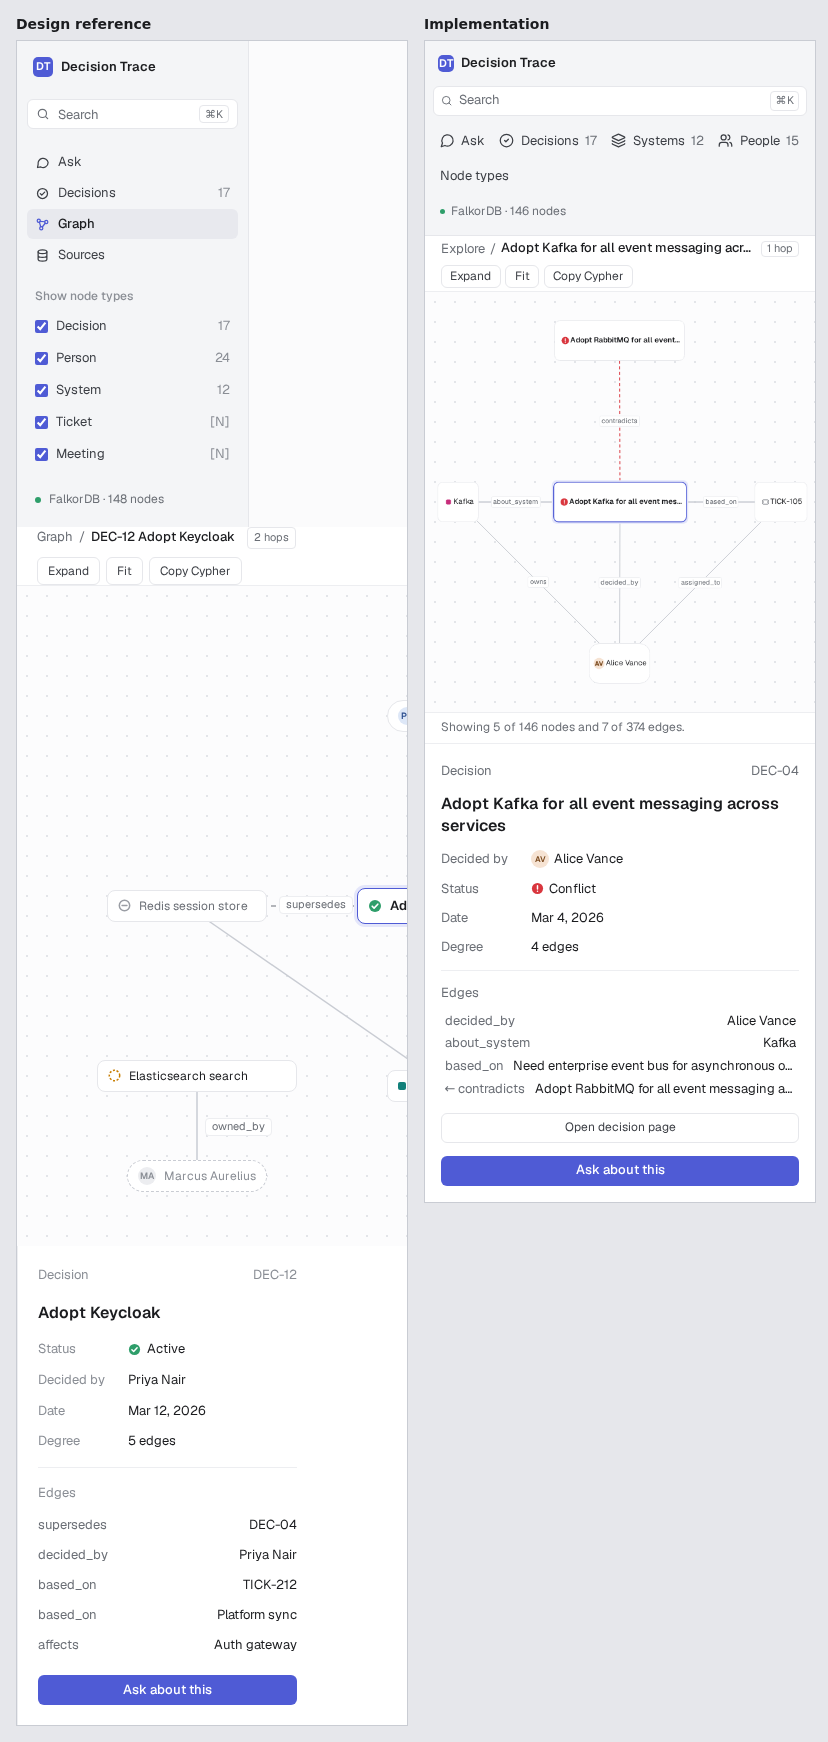
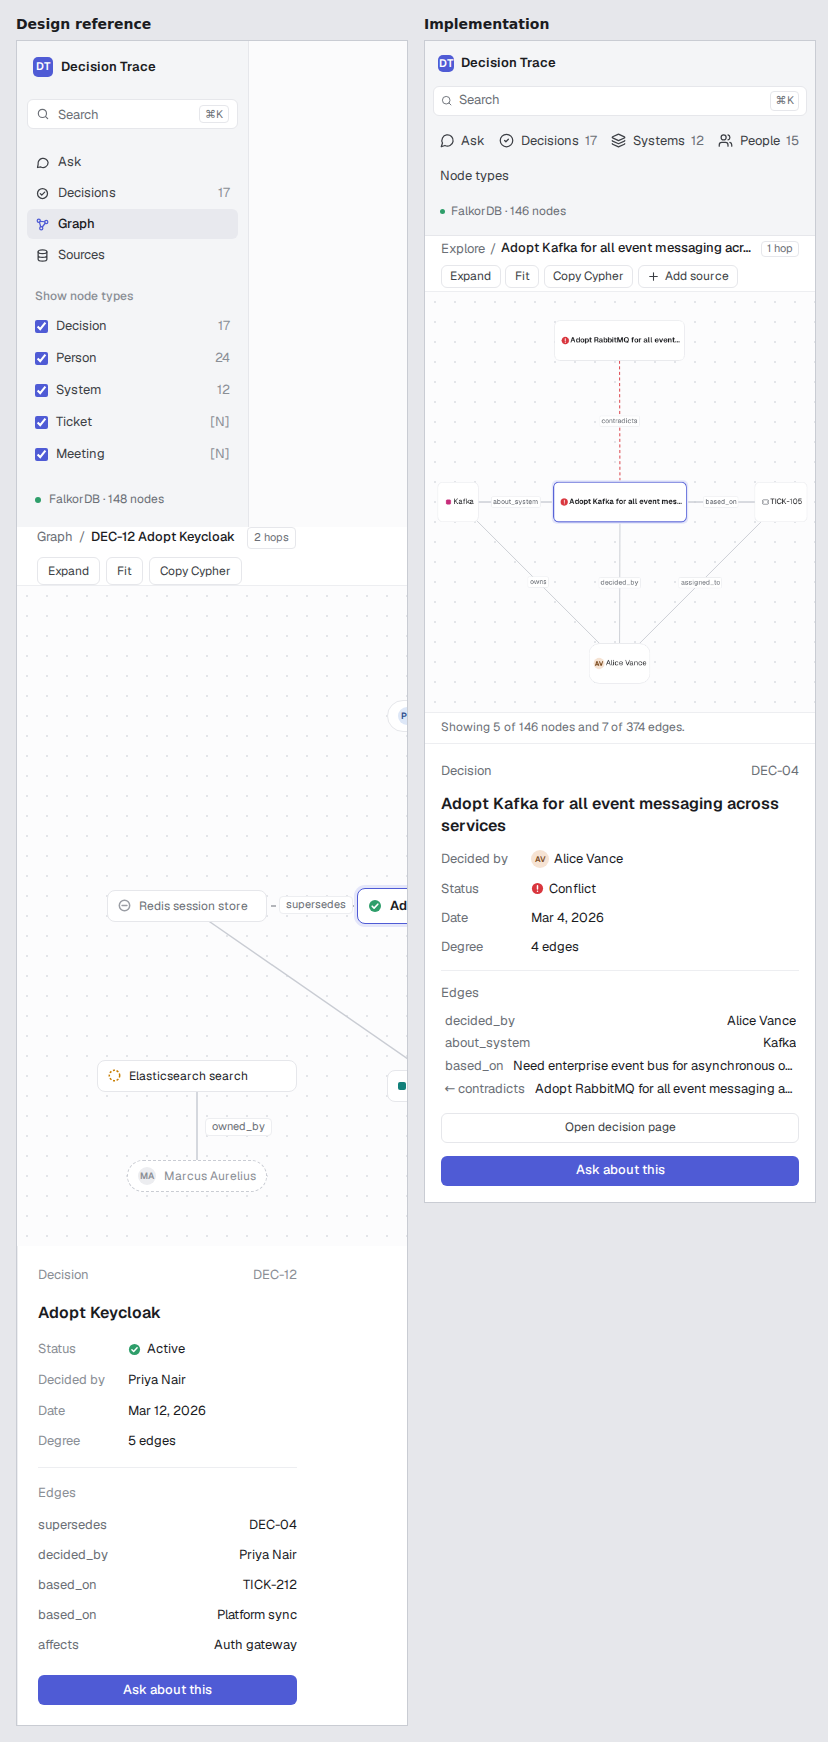
fix: keep caches warm after ingest/reset; Show Cypher times only Cypher; CI screenshots
Ingest and reset store the health map and codes they just computed instead of only
invalidating, so the refetched pages stay fast. The decision page's trace clock now starts
after the cache lookups. Adds the CI-produced screenshots (drawer running + diff).

diff --git a/backend/app/ingest/live.py b/backend/app/ingest/live.py
@@ -525,6 +525,9 @@ async def run_ingest(req: IngestRequest, dataset: str) -> AsyncIterator[dict[str
         yield _step("health", "running")
         cache.invalidate()
         after = await _snapshot_state(dataset)
+        # Store the fresh results so the pages refetched next do not recompute them
+        cache.put("health", dataset, after["health"])
+        cache.put("codes", dataset or "", after["codes"])
         diff = build_diff(ingest_id, ingested_at, req, src_key, created, overrides, links, before, after)
         changed_nodes = [
             {"id": f"Decision:{s['id']}", "label": "Decision", "name": s["title"], "decision_code": s["decision_code"], "change": "changed"}
@@ -719,6 +722,9 @@ async def reset_demo(dataset: str) -> dict[str, Any]:
             "MATCH (c:Change {kind: 'ingest', reverted: false}) SET c.reverted = true", dataset_name=graph
         )
     cache.invalidate()
+    health, codes = await asyncio.gather(evaluate_graph_health(dataset_name=dataset), get_decision_codes(dataset))
+    cache.put("health", dataset, health)
+    cache.put("codes", dataset or "", codes)
     totals = await asyncio.gather(
         query_graph("MATCH (n) RETURN count(n)", dataset_name=dataset),
         query_graph("MATCH ()-[r]->() RETURN count(r)", dataset_name=dataset),

diff --git a/backend/app/brain/lineage.py b/backend/app/brain/lineage.py
@@ -187,10 +187,10 @@ async def build_decision_detail(ref: str, dataset_name: Optional[str] = None) ->
     Three Cypher statements: the decision with its whole lineage (one round trip), then the
     related decisions' attributes/edges/sources and the impact neighbourhood, concurrently.
     """
-    trace = CypherTrace(dataset_name)
     codes, health = await asyncio.gather(
         get_decision_codes_cached(dataset_name), get_health_map(dataset_name)
     )
+    trace = CypherTrace(dataset_name)  # times only the Cypher below
     today = _today()
 
     if _CODE.match(ref):

diff --git a/frontend/README.md b/frontend/README.md
@@ -9,6 +9,8 @@ Web UI for Decision Trace — an interactive, evidence-grounded decision memory 
 - **Systems and People**: list and detail pages with ownership, orphaned systems and departed people flagged.
 - **Decisions**: Decisions grouped by status (Conflict, Possibly stale, Active, Superseded), each with a stable `DEC-NN` code, a relation hint, system chip, decider avatar and date. Tabs, filter, display options, and a peek panel.
 - **Explore**: A Cytoscape explorer centred on one node (radial layout) with node-type filters showing real counts, Expand / Fit / Copy Cypher, and an inspector listing properties and edges.
+- **Add source** (top bar, every page): paste a meeting, ticket or announcement and watch it ingest live (streamed steps, mini graph, diff card with DEC links). "Reset demo data" removes everything demo-ingested. Pages changed by the latest ingest show "Changed just now".
+- **View source**: decision source cards open the full verbatim text with the quote highlighted.
 - **Command palette**: `Cmd/Ctrl+K` searches decisions or asks a question.
 - **Accessible**: Keyboard-reachable controls, visible focus rings, an `axe` check on every page at desktop and mobile widths, and a screen-reader node list for the graph canvas.
 - **Standalone mock mode**: Frozen API responses (`src/mocks/`, captured from the live backend) let reviewers click through every page without any backend.
@@ -55,6 +57,8 @@ npm run preview
 # Run end-to-end Playwright tests & axe-core accessibility checks
 npm run test:e2e
 ```
+
+CI (`.github/workflows/frontend.yml`) runs lint, typecheck, unit tests, the build and Playwright + axe on every push to main, uploads the screenshots as an artifact, then deploys to Cloudflare Pages.
 
 ## Environment Configuration
 
